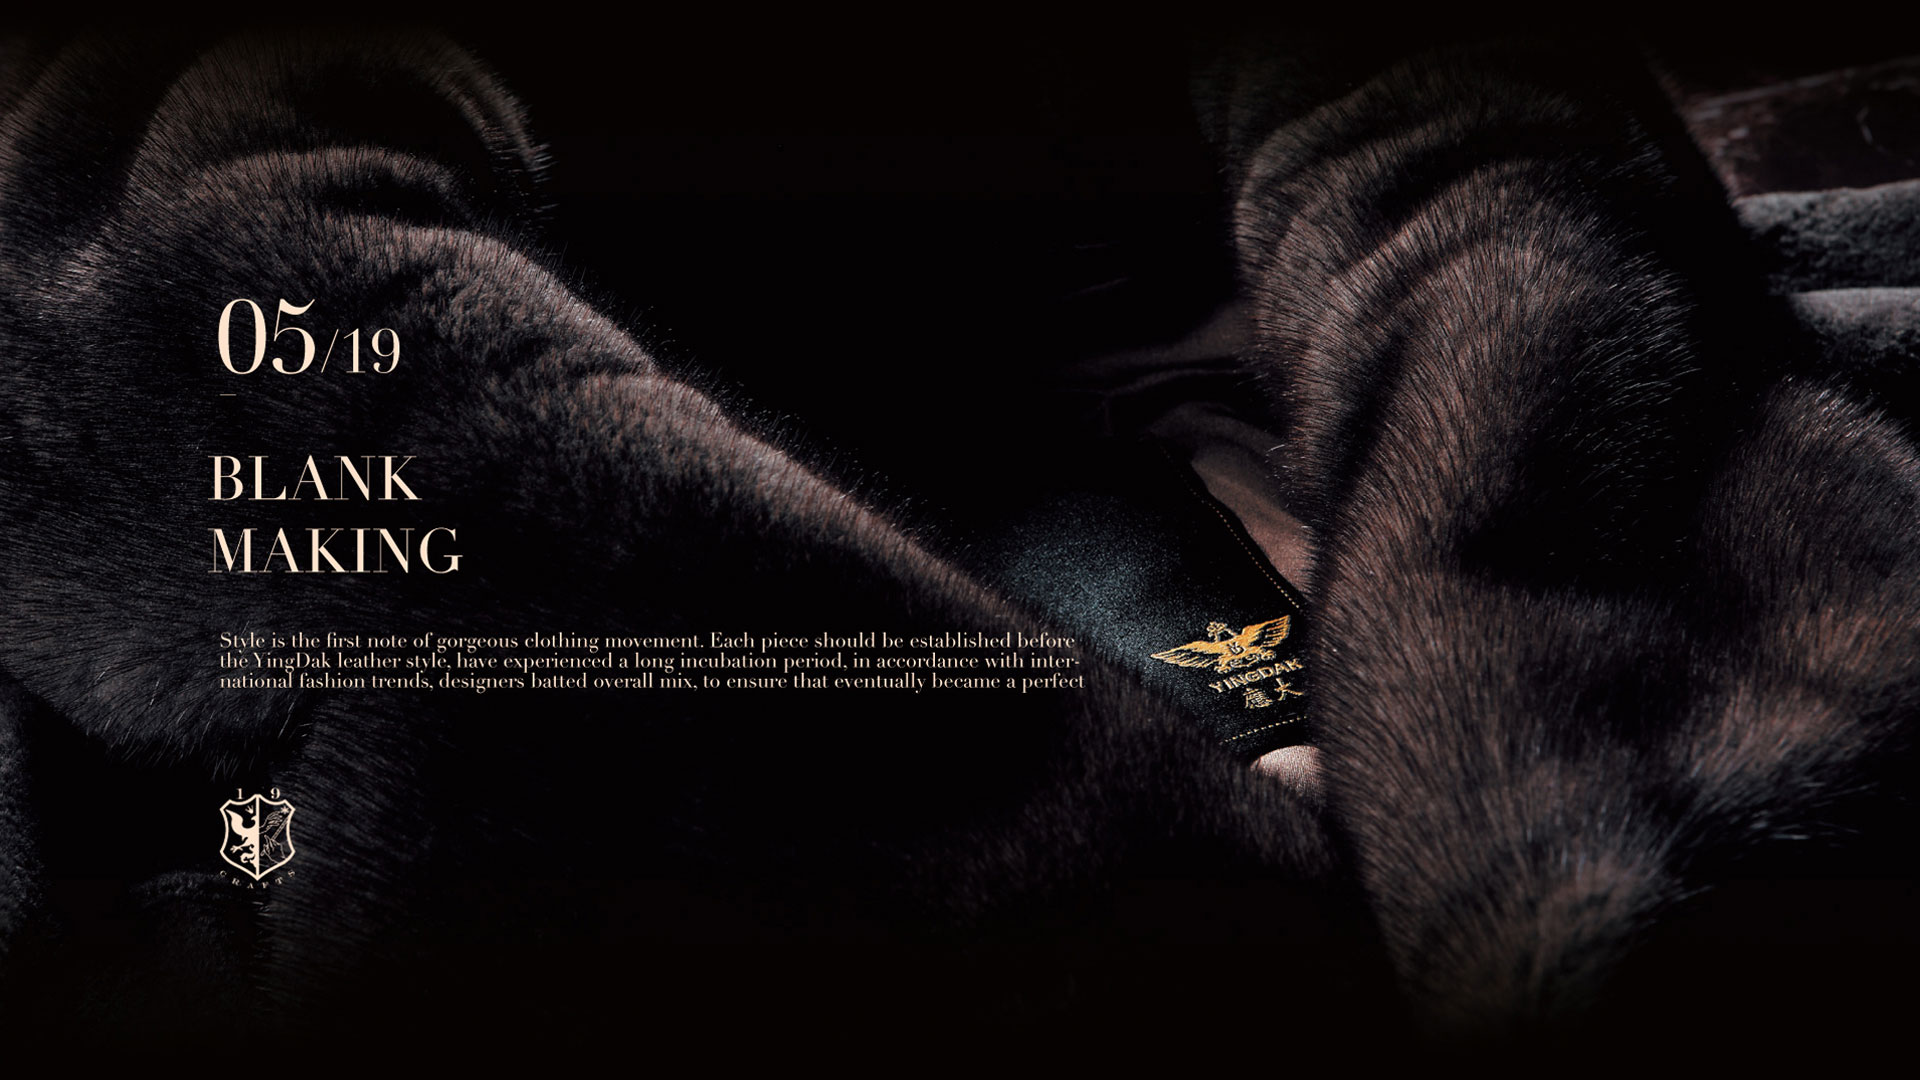
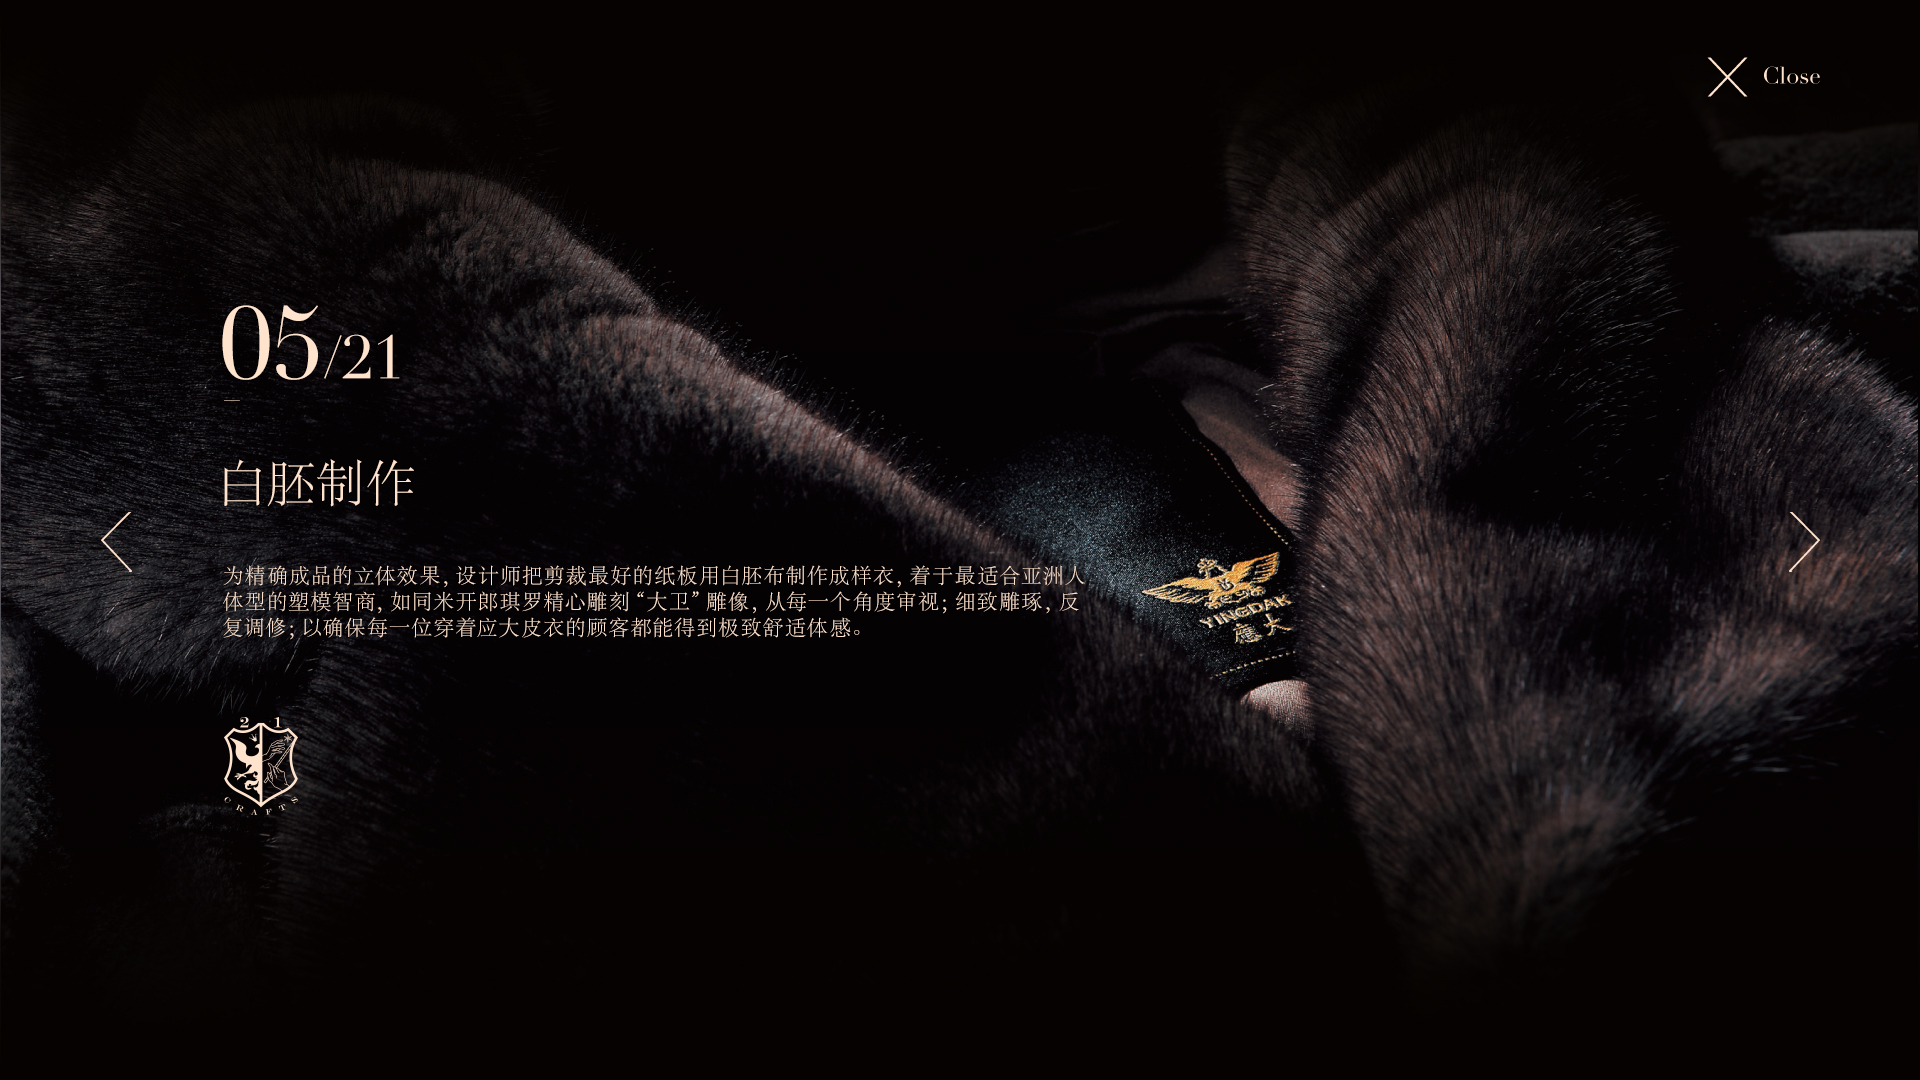
更新21章特效

Changed region(s): [[0.0, 0.0611, 1.0, 0.8861], [0.0, 0.7944, 0.0312, 0.8556]]

diff --git a/src/javascript/chapter21/main.js b/src/javascript/chapter21/main.js
@@ -15,11 +15,10 @@ require(['jquery', 'iscroll', 'tweenTime', 'tweenLite', 'tweenCss', 'flexslider'
         this.nextbtn = $(".nextbtn");
         this.backBtn = $(".btnreturn");
         this.currId = void 0;
-
     }
 
     Slidelight.prototype.init = function () {
-        myScroll = new IScroll('#boxscroll', { mouseWheel: true, scrollX: true, scrollY: false, bounceTime: 1200, click: true});
+        myScroll = new IScroll('#boxscroll', { mouseWheel: true, scrollX: true, scrollY: false, click: true});
 
         this.isdesktop = this.isDesktop();
         this.eventBind();
@@ -28,10 +27,12 @@ require(['jquery', 'iscroll', 'tweenTime', 'tweenLite', 'tweenCss', 'flexslider'
     Slidelight.prototype.eventBind = function () {
 
         $(".list-item").click($.proxy(this.doorOpen, this));
-//
+
         $(".btnreturn").click($.proxy(this.closeDoor, this));
 
-        $(".list-item").mouseenter($.proxy(this.hoverIn, this)).mouseleave($.proxy(this.hoverOut, this));
+        $(".list-item").mouseenter($.proxy(this.hoverIn, this));
+
+        $(".list-item").mouseleave($.proxy(this.hoverOut, this));
 
         $(".prebtn").on("click", $.proxy(this.prebtn, this));
 
@@ -65,7 +66,7 @@ require(['jquery', 'iscroll', 'tweenTime', 'tweenLite', 'tweenCss', 'flexslider'
             wrap = $(".wrap"),
             imglink = $("#" + cur.attr("id")).data("link");
         console.log(imglink);
-        $(".m-slider img").attr("src", imglink);
+        $(".m-slider .listdetail").attr("src", imglink);
 
         this.currId = cur.attr("id");
 
@@ -101,15 +102,14 @@ require(['jquery', 'iscroll', 'tweenTime', 'tweenLite', 'tweenCss', 'flexslider'
         this.setImgUrl(url);
     };
     Slidelight.prototype.setImgUrl = function (url) {
-        $(".m-slider img").attr("src", url);
+        $(".m-slider .listdetail").attr("src", url);
     }
     Slidelight.prototype.getNextUrl = function (id) {
-        console.log(this.currId);
         var num = id.split("-")[1];
         if (num < 21) {
             num++;
         } else {
-            num = 0;
+            num = 1;
         }
         this.currId = "step-" + num;
         return $("#" + this.currId).data("link");
@@ -131,7 +131,9 @@ require(['jquery', 'iscroll', 'tweenTime', 'tweenLite', 'tweenCss', 'flexslider'
         $(".list-item").on("mouseenter", mousehover);
     };
     Slidelight.prototype.hoverIn = function (event) {
+
         var cur = $(event.currentTarget),
+
             index = cur.index(),
             bf = $(".list-item:lt(" + index + ")"),
             af = $(".list-item:gt(" + index + ")"),
@@ -139,23 +141,13 @@ require(['jquery', 'iscroll', 'tweenTime', 'tweenLite', 'tweenCss', 'flexslider'
             shade = cur.find(".shade");
 
 
-        if (fromElem.attr("id")) {
+        if (fromElem.attr("id") && fromElem.hasClass("list-item")) {
             this.extendDoor = new TimelineLite();
-            this.extendDoor.to(bf, .3, {css: {left: '-30px'}}, 'sm')
-                .to(af, .3, {left: '-30px'}, 'sm')
-                .to(cur, .3, {left: '-30px', width: '340px'}, 'sm')
-                .to(fromElem, .3, {width: '310px'}, 'sm');
-
             if (this.isdesktop) {
                 this.extendDoor.to(shade, .3, {autoAlpha: 0}, "sm");
             }
         } else {
-
             this.extendDoor = new TimelineLite();
-
-            this.extendDoor.to(bf, .3, {left: '-30px'}, 'sm')
-                .to(af, .3, {left: '-30px'}, 'sm')
-                .to(cur, .3, {left: '-30px', width: '340px'}, 'sm')
             if (this.isdesktop) {
                 this.extendDoor.to(shade, .3, {autoAlpha: 0}, "sm");
             }

diff --git a/src/web-brand/21Chapters.html b/src/web-brand/21Chapters.html
@@ -84,10 +84,11 @@
 </div>
 <!--TODO-UODATE 9月1日 更新头部-->
 <div class="m-nav-list-bg"></div>
+
 <div class="m-chapter21">
     <div class="container-fluid g-sld">
 
-        <div class="m-sld " id="boxscroll">
+        <div class="m-sld " id="boxscroll" style="background: #000;background: rgba(0,0,0,.9);">
             <div class="inner">
                 <div id="step-1" class="list-item" data-link="../images/21chapter/1/1.jpg">
                     <div class="shade" >
@@ -199,7 +200,7 @@
         <div class="wrap">
             <div class="g-slider">
                 <div class="m-slider">
-                    <img src="" alt="...">
+                    <img class="listdetail" src="" alt="...">
                     <div class="prebtn ">上一页</div>
                     <div class="nextbtn ">下一页</div>
                     <div class="btnreturn">关掉</div>

diff --git a/src/sass/pages/_21chapters.scss b/src/sass/pages/_21chapters.scss
@@ -72,14 +72,14 @@ body.chapter21 {
     overflow-x: hidden;
     z-index: 100;
     .inner {
-      width: 6700px;
+      width: 5880px;
       overflow: hidden;
       height: 100%;
       z-index: 1;
     }
     @media (max-width: 788px) {
       .inner {
-        width: 6000px;
+        width: 5880px;
         overflow: hidden;
         height: 100%;
         z-index: 1;
